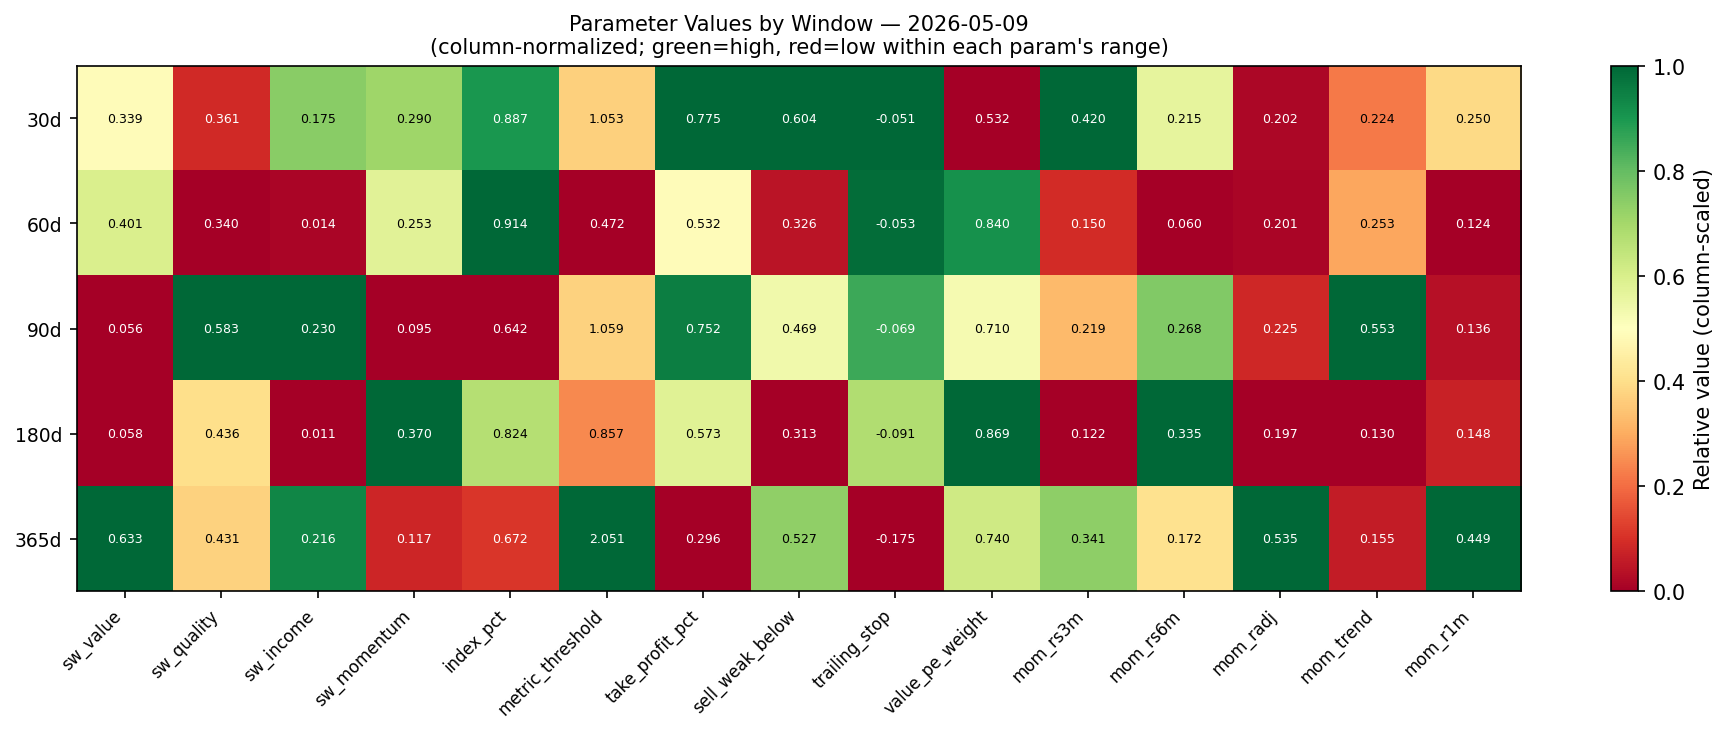
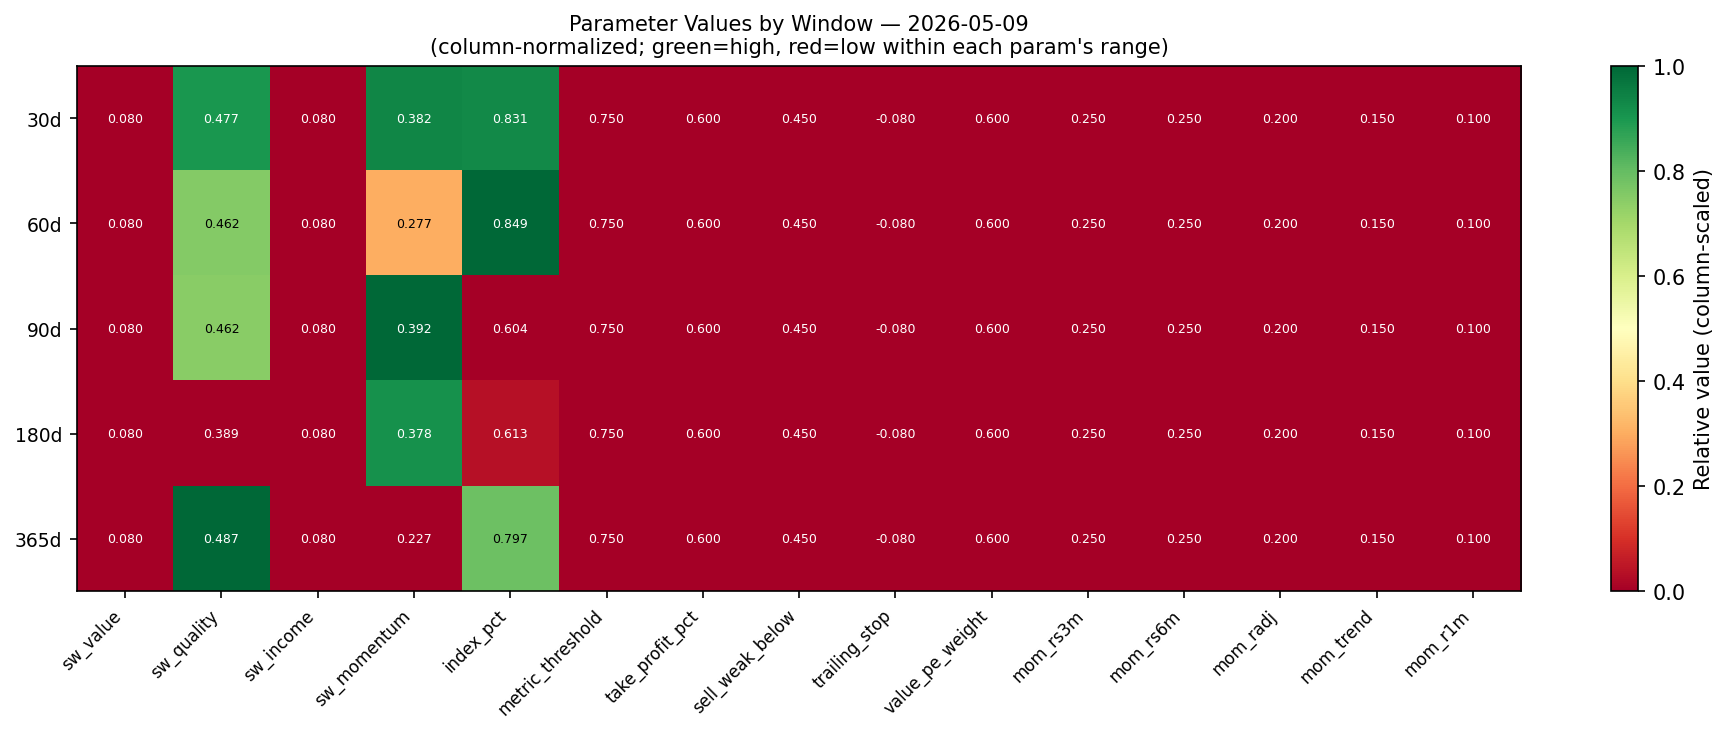
stability achieved

diff --git a/src/tuner.py b/src/tuner.py
@@ -37,6 +37,7 @@ from util import (
     SCORING_PARAMS,
     SELL_RULES,
     STABILITY_PARAMS,
+    TUNING_PARAMS,
 )
 
 logger = logging.getLogger(__name__)
@@ -88,6 +89,57 @@ BOUNDS: list[tuple[float, float]] = [
     (0.00, 0.60),   # mom_trend
     (0.00, 0.60),   # mom_r1m
 ]
+
+
+# Map from config.yaml dotted path → index in PARAM_NAMES / BOUNDS
+_CONFIG_PATH_TO_PARAM_IDX: dict[str, int] = {
+    "score_weights.value":                 0,
+    "score_weights.quality":               1,
+    "score_weights.income":                2,
+    "score_weights.momentum":              3,
+    "index_pct":                           4,
+    "metric_threshold":                    5,
+    "sell_rules.take_profit_pct":          6,
+    "sell_rules.sell_weak_value_below":    7,
+    "sell_rules.trailing_stop_pct":        8,
+    "scoring.value_pe_weight":             9,
+    "momentum_v2.weights.rs_3m":           10,
+    "momentum_v2.weights.rs_6m":           11,
+    "momentum_v2.weights.risk_adj_3m":     12,
+    "momentum_v2.weights.trend_structure": 13,
+    "momentum_v2.weights.return_1m":       14,
+}
+
+
+def _effective_bounds() -> list[tuple[float, float]]:
+    """Return BOUNDS with any tuning.parameter_bounds overrides applied."""
+    bounds = list(BOUNDS)
+    for path, rng in TUNING_PARAMS.get("parameter_bounds", {}).items():
+        idx = _CONFIG_PATH_TO_PARAM_IDX.get(path)
+        if idx is None:
+            continue
+        lo = float(rng.get("min", bounds[idx][0]))
+        hi = float(rng.get("max", bounds[idx][1]))
+        bounds[idx] = (lo, min(hi, bounds[idx][1]))
+    return bounds
+
+
+def _get_active_indices() -> list[int]:
+    """Return param indices that are NOT in tuning.frozen_parameters."""
+    frozen = {
+        _CONFIG_PATH_TO_PARAM_IDX[p]
+        for p in TUNING_PARAMS.get("frozen_parameters", [])
+        if p in _CONFIG_PATH_TO_PARAM_IDX
+    }
+    return [i for i in range(len(PARAM_NAMES)) if i not in frozen]
+
+
+def _expand_params(reduced: np.ndarray, active: list[int], frozen_vals: np.ndarray) -> np.ndarray:
+    """Expand a reduced (non-frozen) vector back to full PARAM_NAMES length."""
+    full = frozen_vals.copy()
+    for j, i in enumerate(active):
+        full[i] = reduced[j]
+    return full
 
 
 def _current_params() -> np.ndarray:
@@ -155,8 +207,10 @@ def make_objective(
             shortfall = _MIN_TRADES_SOFT - result.trades_made
             penalty = shortfall / _MIN_TRADES_SOFT * 2.0
 
-        # Penalize aggressive churn: >80 new positions in the window is excessive
-        turnover_penalty = max(0.0, result.trades_made - 80) / 80.0
+        bp = BACKTEST_PARAMS
+        tp_threshold = bp.get("turnover_penalty_trade_count", 80)
+        tp_weight = bp.get("turnover_penalty_weight", 1.0) if bp.get("turnover_penalty_enabled", True) else 0.0
+        turnover_penalty = max(0.0, result.trades_made - tp_threshold) / max(tp_threshold, 1) * tp_weight
 
         # Penalize sector / position concentration: fewer than 5 average open positions
         # is a signal the optimizer found a few lucky stocks and over-fitted them
@@ -187,16 +241,36 @@ def _run_single(
     from scipy.optimize import differential_evolution
 
     bp = BACKTEST_PARAMS
-    obj_fn = make_objective(
+    active = _get_active_indices()
+    frozen_vals = _current_params()
+    eff_bounds = _effective_bounds()
+    active_bounds = [eff_bounds[i] for i in active]
+
+    obj_fn_full = make_objective(
         precomp, objective, starting_capital,
         slippage_bps=bp["slippage_bps"],
         commission_per_trade=bp["commission_per_trade"],
         weekly_contribution=bp["weekly_contribution"],
         rebalance_frequency_days=bp["rebalance_frequency_days"],
     )
+
+    def _obj(reduced: np.ndarray) -> float:
+        return obj_fn_full(_expand_params(reduced, active, frozen_vals))
+
+    n_active = len(active)
+    if n_active == 0:
+        best_result = run_simulation(
+            precomp, frozen_vals, starting_capital,
+            slippage_bps=bp["slippage_bps"],
+            commission_per_trade=bp["commission_per_trade"],
+            weekly_contribution=bp["weekly_contribution"],
+            rebalance_frequency_days=bp["rebalance_frequency_days"],
+        )
+        return frozen_vals, best_result
+
     result = differential_evolution(
-        obj_fn,
-        bounds=BOUNDS,
+        _obj,
+        bounds=active_bounds,
         maxiter=maxiter,
         popsize=popsize,
         tol=0.02,
@@ -205,14 +279,15 @@ def _run_single(
         disp=False,
         polish=True,
     )
+    best_full = _expand_params(result.x, active, frozen_vals)
     best_result = run_simulation(
-        precomp, result.x, starting_capital,
+        precomp, best_full, starting_capital,
         slippage_bps=bp["slippage_bps"],
         commission_per_trade=bp["commission_per_trade"],
         weekly_contribution=bp["weekly_contribution"],
         rebalance_frequency_days=bp["rebalance_frequency_days"],
     )
-    return result.x, best_result
+    return best_full, best_result
 
 
 # ---------------------------------------------------------------------------

diff --git a/src/util.py b/src/util.py
@@ -136,6 +136,7 @@ RISK_LIMITS: dict = {
     "min_liquidity_volume":                 float(_rl.get("min_liquidity_volume",                 500_000)),
     "max_buys_per_rebalance":               int(_rl.get("max_buys_per_rebalance",                 10)),
     "max_sentiment_candidates":             int(_rl.get("max_sentiment_candidates",               20)),
+    "minimum_hold_days":                    int(_rl.get("minimum_hold_days",                      0)),
     "allow_whole_share_fallback":           bool(_rl.get("allow_whole_share_fallback",            False)),
     "max_whole_share_buys_per_run":         int(_rl.get("max_whole_share_buys_per_run",           3)),
     "max_whole_share_allocation_multiplier":float(_rl.get("max_whole_share_allocation_multiplier",1.5)),
@@ -188,6 +189,9 @@ BACKTEST_PARAMS: dict = {
     "cooldown_days_after_stopout":  int(_bt.get("cooldown_days_after_stopout",  7)),
     "vol_slippage_scaling":         bool(_bt.get("vol_slippage_scaling",        True)),
     "vol_slippage_multiplier":      float(_bt.get("vol_slippage_multiplier",    2.0)),
+    "turnover_penalty_enabled":     bool(_bt.get("turnover_penalty_enabled",    True)),
+    "turnover_penalty_trade_count": int(_bt.get("turnover_penalty_trade_count", 80)),
+    "turnover_penalty_weight":      float(_bt.get("turnover_penalty_weight",    1.0)),
 }
 
 # ---------------------------------------------------------------------------
@@ -204,6 +208,7 @@ SELL_RULES: dict = {
     "sell_yield_trap":                     bool(_sr.get("sell_yield_trap",                       True)),
     "sell_low_quality_below":              float(_sr.get("sell_low_quality_below",              -0.25)),
     "min_days_held_before_value_exit":     int(_sr.get("min_days_held_before_value_exit",          7)),
+    "minimum_days_before_take_profit":     int(_sr.get("minimum_days_before_take_profit",         0)),
 }
 
 # ---------------------------------------------------------------------------
@@ -364,6 +369,16 @@ STABILITY_PARAMS: dict = {
     "max_unstable_params":       int(_stab.get("max_unstable_params",        5)),
     "scan_maxiter":              int(_stab.get("scan_maxiter",               15)),
     "scan_popsize":              int(_stab.get("scan_popsize",               6)),
+}
+
+# ---------------------------------------------------------------------------
+# Optimizer tuning controls — frozen params and tighter bounds
+# ---------------------------------------------------------------------------
+
+_tn = _app.get("tuning", {})
+TUNING_PARAMS: dict = {
+    "frozen_parameters": list(_tn.get("frozen_parameters", [])),
+    "parameter_bounds":  dict(_tn.get("parameter_bounds", {})),
 }
 
 # ---------------------------------------------------------------------------

diff --git a/src/backtest.py b/src/backtest.py
@@ -25,14 +25,17 @@ from util import (
     RISK_LIMITS,
     SCORE_WEIGHTS,
     SCORING_PARAMS,
+    SELL_RULES,
     read_data_as_pd,
 )
 
 logger = logging.getLogger(__name__)
 
 _TAKE_PROFIT_FLOOR_MULTIPLIER = 1.2
-_MIN_DAYS_HELD_BEFORE_VALUE_EXIT = 21
 _STOP_LOSS_PCT = -0.20  # hard-coded; not a tuned param
+_MIN_DAYS_HELD_BEFORE_VALUE_EXIT = SELL_RULES.get("min_days_held_before_value_exit", 21)
+_MIN_HOLD_DAYS = RISK_LIMITS.get("minimum_hold_days", 0)
+_MIN_DAYS_BEFORE_TAKE_PROFIT = SELL_RULES.get("minimum_days_before_take_profit", 0)
 
 
 class PrecomputedData(NamedTuple):
@@ -647,8 +650,8 @@ def run_simulation(
         take_profit_ok = current_scores < metric_threshold * _TAKE_PROFIT_FLOOR_MULTIPLIER
 
         stop_loss_mask  = held & (pct_from_avg  <= _STOP_LOSS_PCT)
-        trail_mask      = held & (pct_from_peak <= trailing_stop)
-        tp_mask         = held & (pct_from_avg  >= take_profit_pct) & take_profit_ok
+        trail_mask      = held & (pct_from_peak <= trailing_stop) & (days_held >= _MIN_HOLD_DAYS)
+        tp_mask         = held & (pct_from_avg  >= take_profit_pct) & take_profit_ok & (days_held >= _MIN_DAYS_BEFORE_TAKE_PROFIT)
         weak_val_mask   = held & (current_scores < sell_weak_below) & (days_held >= _MIN_DAYS_HELD_BEFORE_VALUE_EXIT)
         sell_mask       = stop_loss_mask | trail_mask | tp_mask | weak_val_mask
 